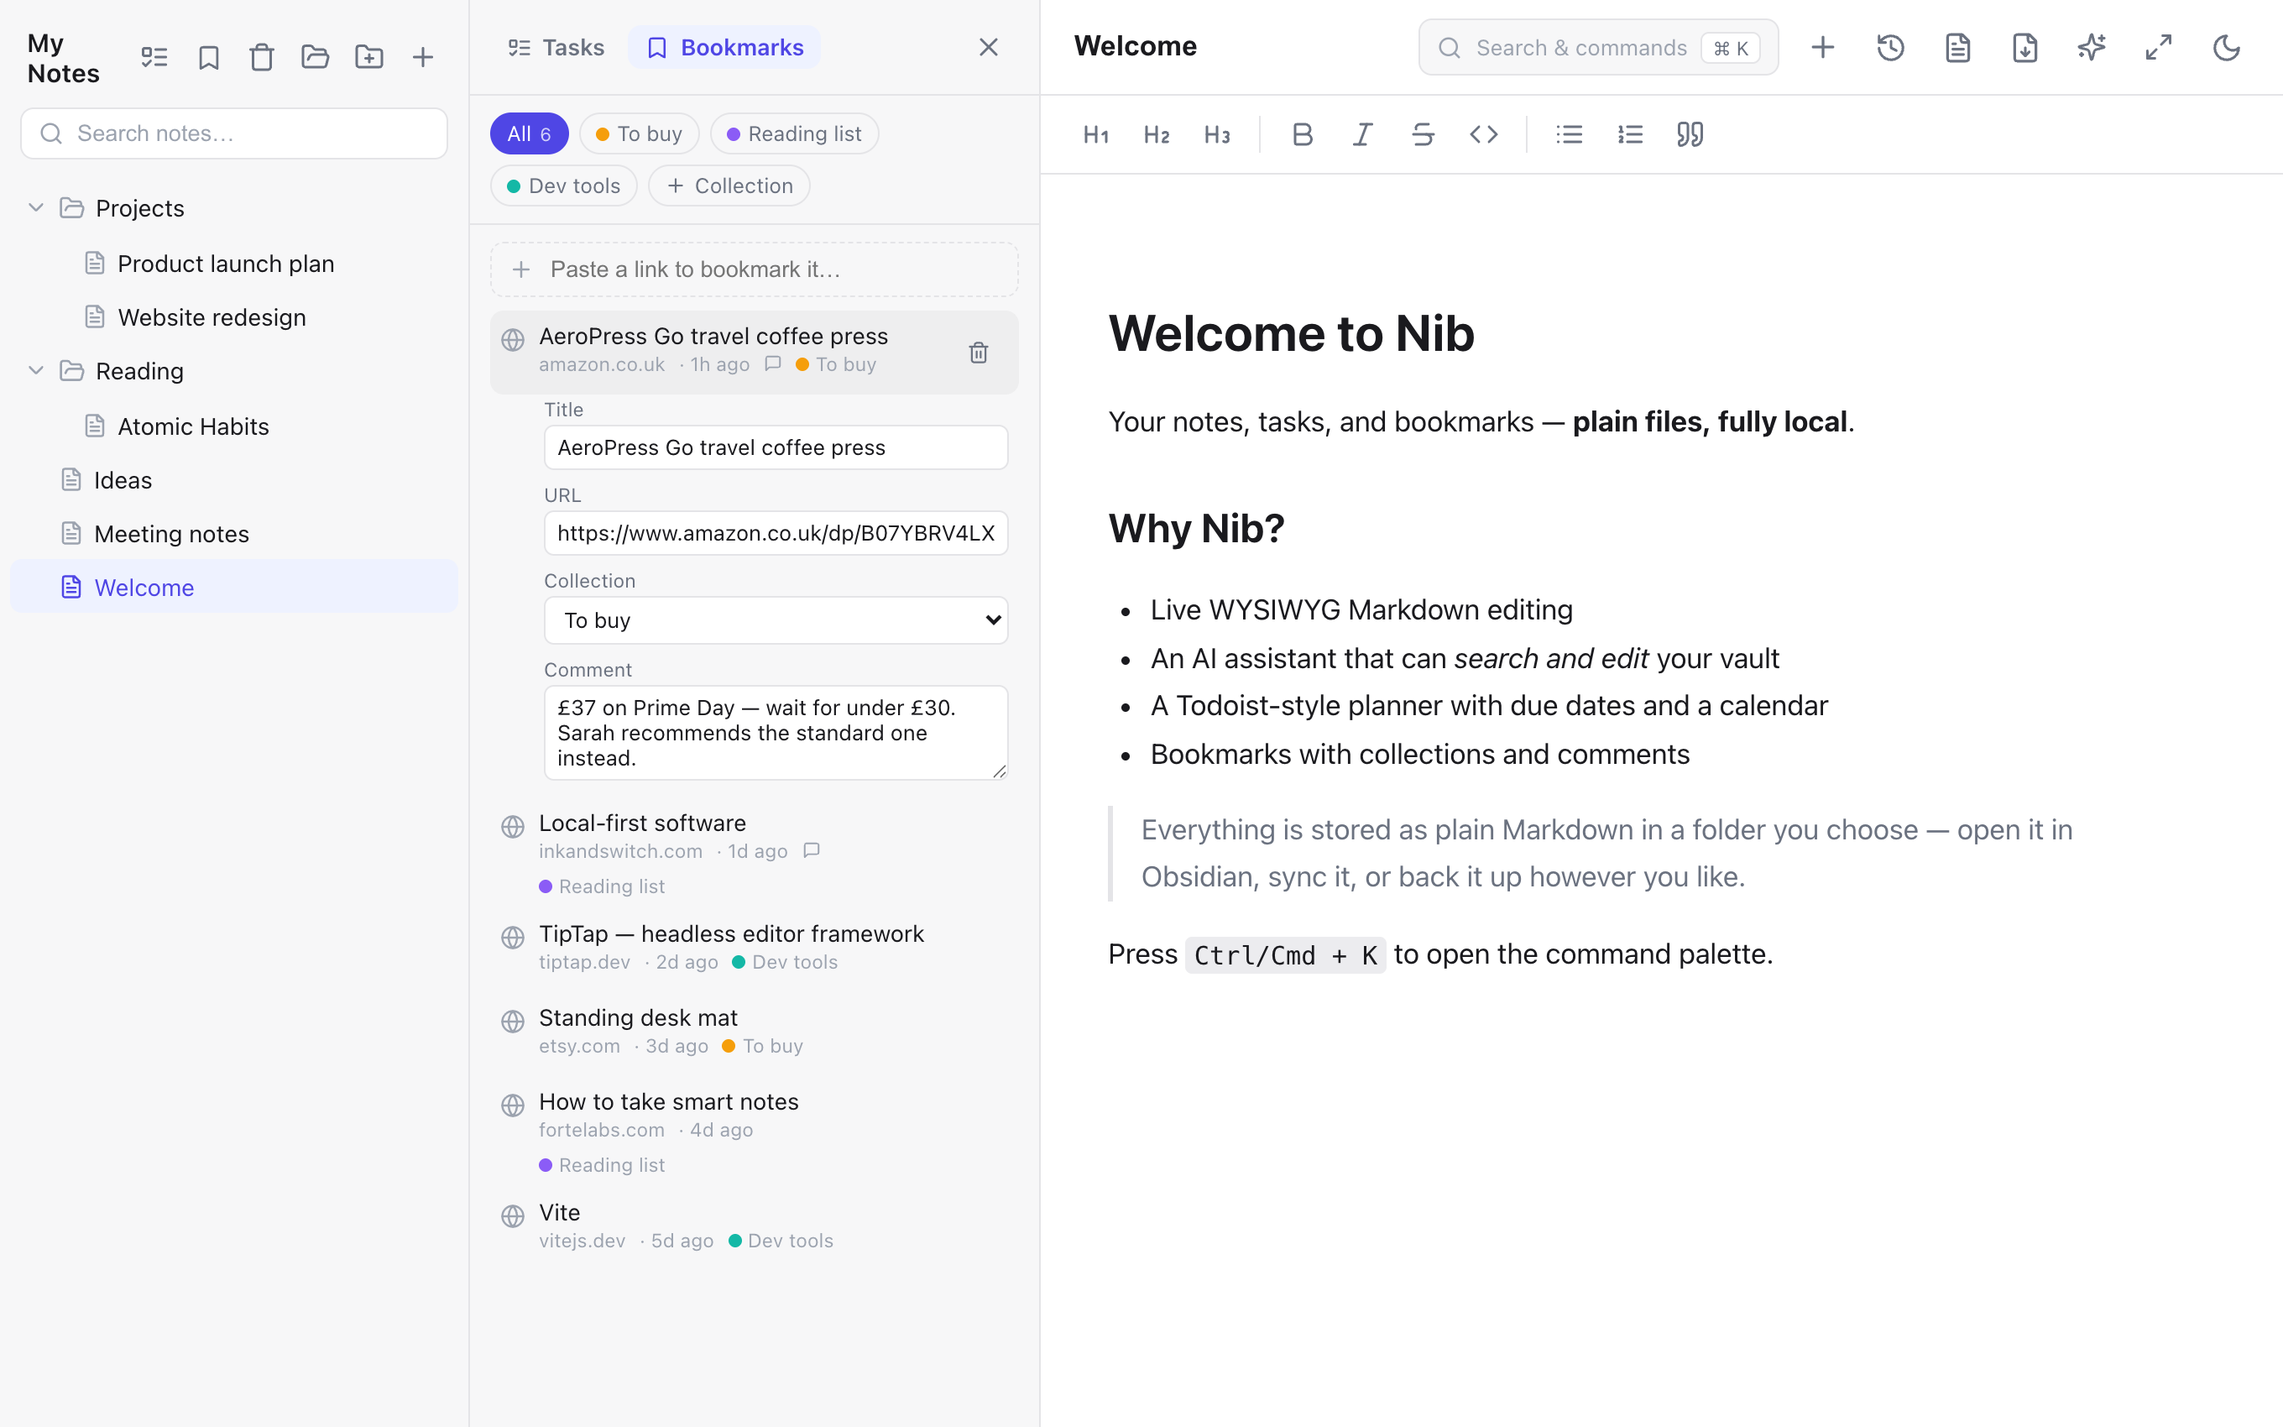
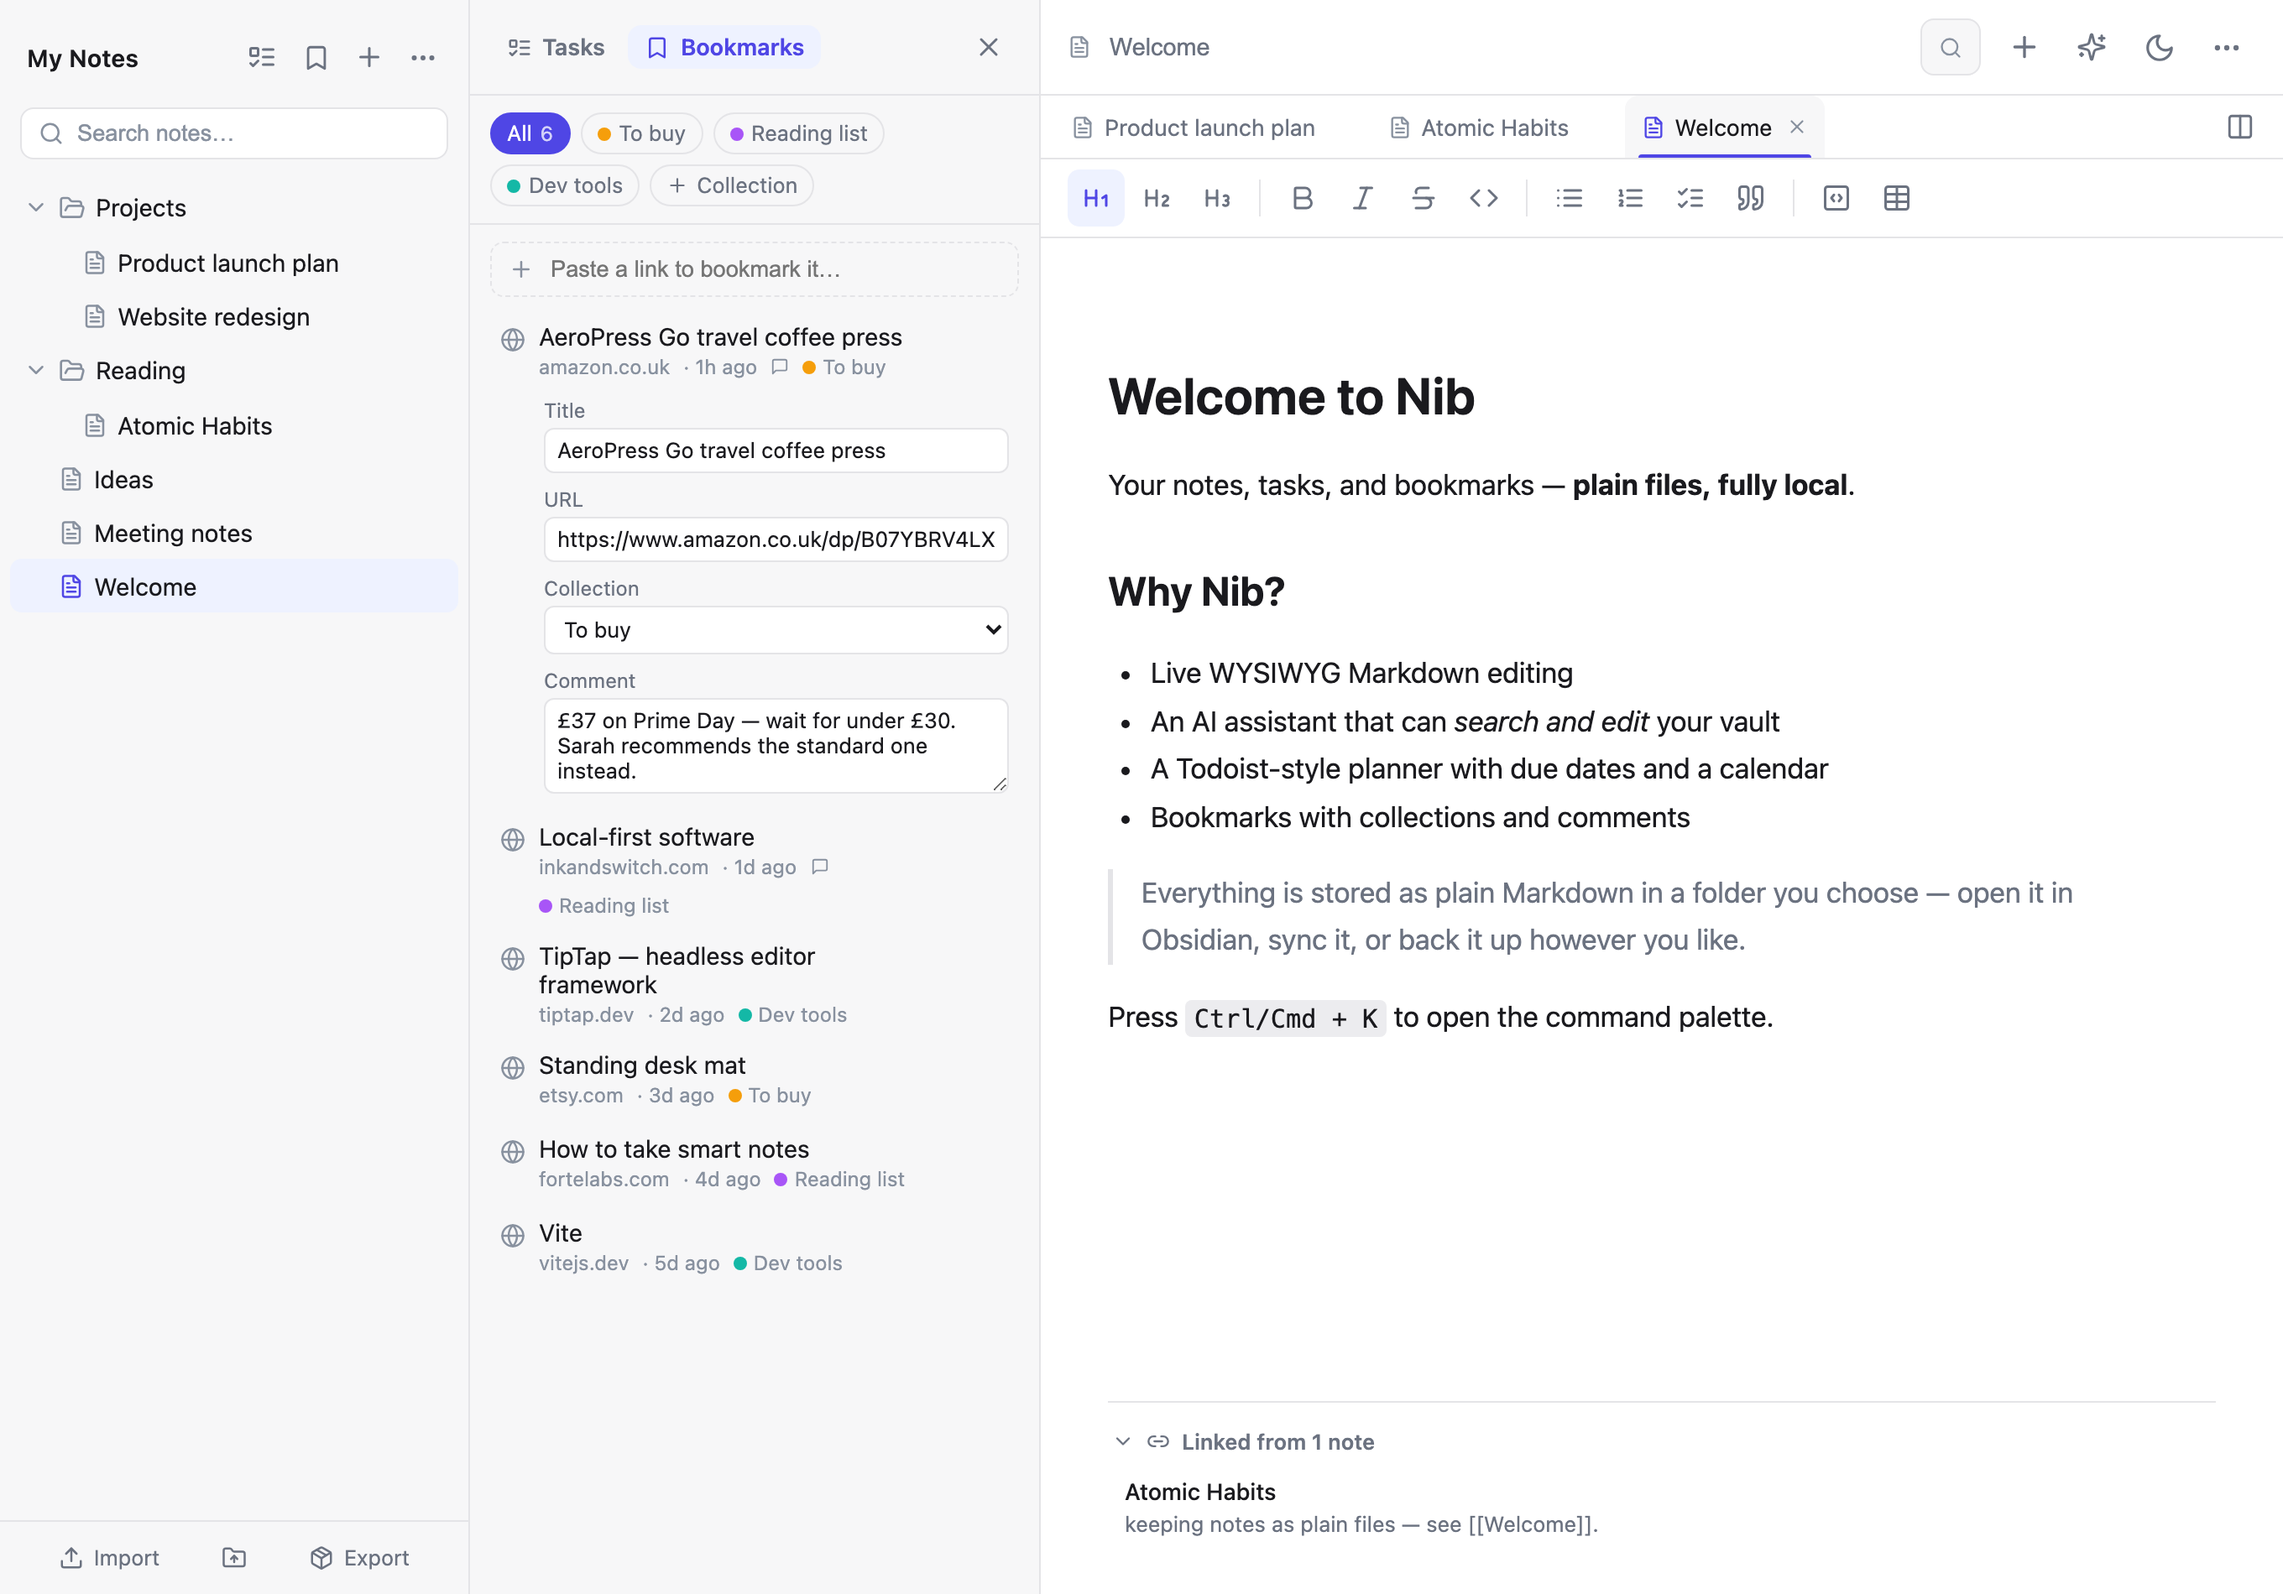
README: retake the screenshots for the new look
The five screenshots dated from before tabs, themes, and the design
system landed, so the README was advertising an interface that no
longer exists.

Retaken against the published image running in server-vault mode, so
these are the real app reading real files rather than mockups. Task
due dates are generated relative to the capture date, which is why the
planner shows a live Overdue / Today / Tomorrow split.

What is now in frame that was not before: editor tabs, the backlinks
panel, wikilinks rendered as links, the split-editor control, the
wider toolbar, and the palette's newer commands.

Two alt-text fixes came along for the ride. The hero promised "and a
command palette" that was never in the shot, and the palette's alt
text said nothing about what the palette contains.

diff --git a/README.md b/README.md
@@ -12,13 +12,13 @@ computer, Obsidian-style, or — if you self-host with Docker — a volume on yo
 own server, which makes Nib fully web based and leaves nothing on the device
 you're using. No third-party account, no lock-in.
 
-![Markdown notes with a folder tree, live WYSIWYG editing, and a command palette](docs/screenshots/editor.png)
+![Markdown notes with a folder tree, editor tabs, live WYSIWYG editing, and a backlinks panel](docs/screenshots/editor.png)
 
 | Task planner — Inbox, Today, Upcoming with a mini calendar | Bookmarks — collections and per-bookmark comments |
 | --- | --- |
 | ![Todoist-style task planner with due dates, priorities, and a month calendar](docs/screenshots/tasks.png) | ![Bookmarks with coloured collections and a comment box](docs/screenshots/bookmarks.png) |
 | **AI assistant — search and edit your vault (dark mode)** | **Command palette — everything a keystroke away** |
-| ![AI assistant panel in dark mode](docs/screenshots/assistant.png) | ![Command palette in dark mode](docs/screenshots/palette.png) |
+| ![AI assistant panel in dark mode](docs/screenshots/assistant.png) | ![Command palette in dark mode, listing commands from new note to split editor and themes](docs/screenshots/palette.png) |
 
 ## Why it exists
 
